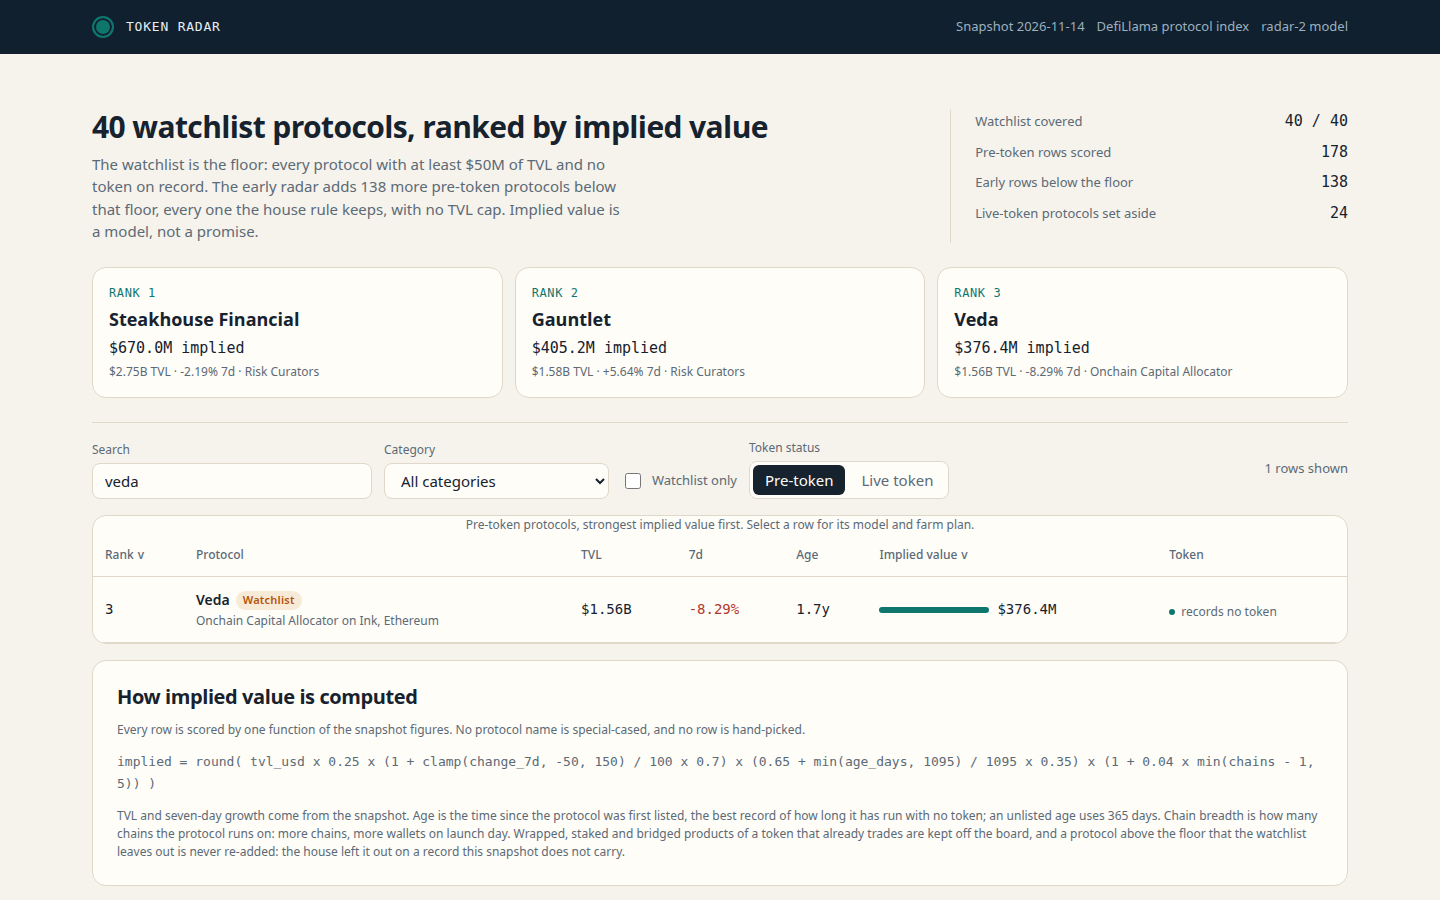
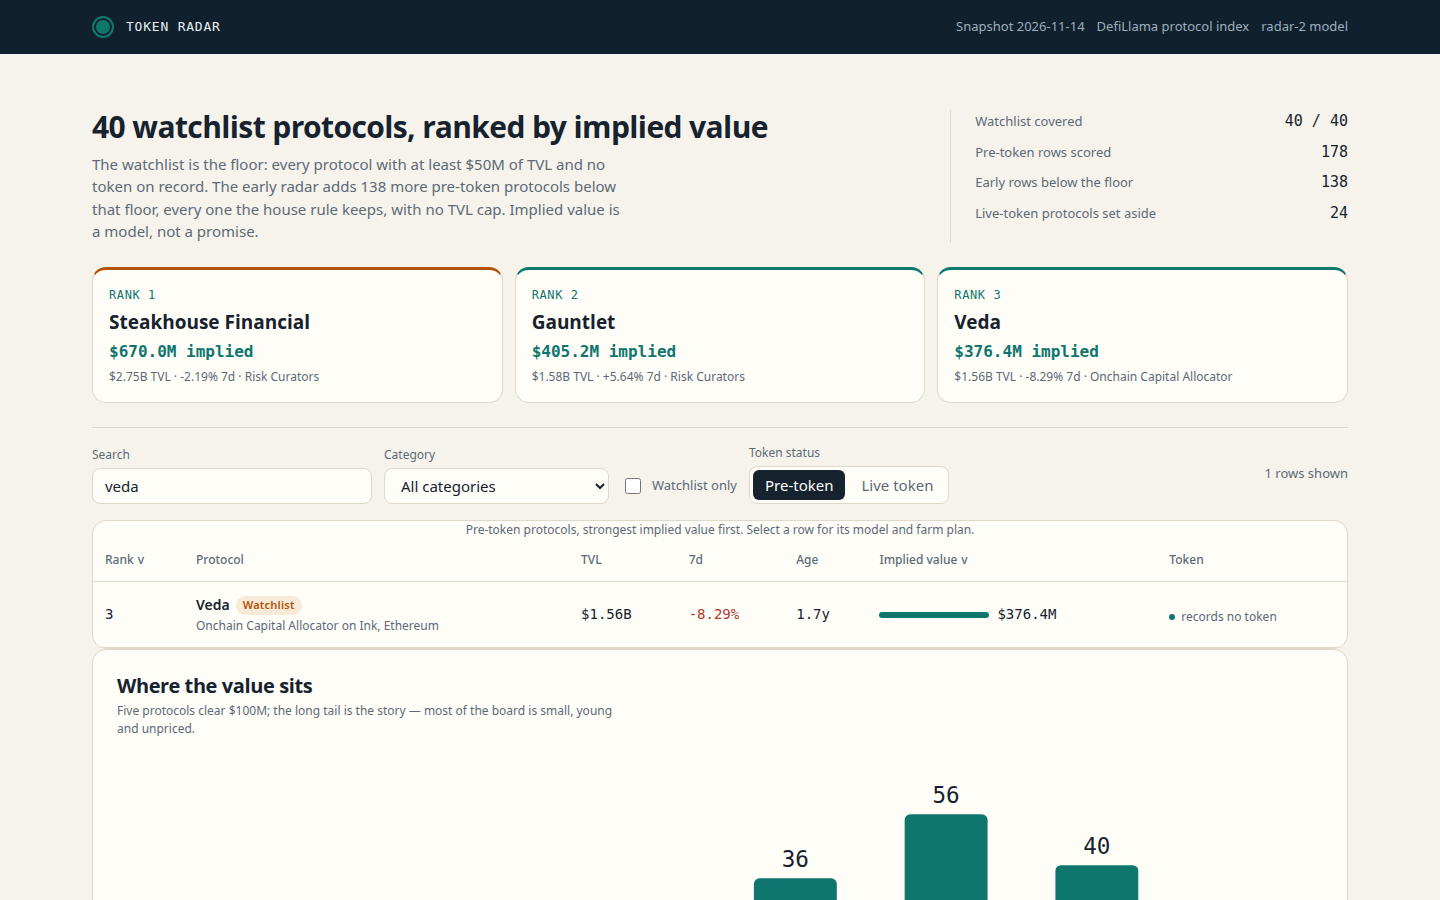
Dashboard v3: value-distribution chart, category summary, tighter layout, README model note

diff --git a/dashboard/app.js b/dashboard/app.js
@@ -299,6 +299,74 @@
     return el('section', { class: 'spot', 'aria-label': 'Top three protocols by implied value' }, cards);
   }
 
+  // Distribution of implied value across the board, as one inline SVG built from the rows
+  // already in data.js: eight log-spaced bands, bar height by row count, no library, no network.
+  function distributionChart() {
+    var bands = [
+      { min: 100e6, label: '≥$100M' }, { min: 50e6, label: '$50–100M' }, { min: 20e6, label: '$20–50M' },
+      { min: 10e6, label: '$10–20M' }, { min: 5e6, label: '$5–10M' }, { min: 2e6, label: '$2–5M' },
+      { min: 1e6, label: '$1–2M' }, { min: 0, label: '<$1M' }
+    ];
+    var counts = bands.map(function () { return 0; });
+    DATA.rows.forEach(function (r) {
+      for (var i = 0; i < bands.length; i++) {
+        if (r.implied_value_usd >= bands[i].min) { counts[i]++; return; }
+      }
+    });
+    var max = Math.max.apply(null, counts);
+    var top = 0, modal = 0;
+    counts.forEach(function (c, i) { if (c > counts[modal]) modal = i; });
+    top = counts[0];
+    var sorted = DATA.rows.map(function (r) { return r.implied_value_usd; }).sort(function (a, b) { return b - a; });
+    var median = Math.round((sorted[88] + sorted[89]) / 2);
+    var parts = ['<svg viewBox="0 0 640 168" role="img" aria-label="Distribution of implied value across ' + DATA.board_size + ' rows">'];
+    parts.push('<line x1="0" y1="128" x2="640" y2="128" stroke="#e0d9ca" stroke-width="1"/>');
+    counts.forEach(function (c, i) {
+      var h = max ? Math.round((c / max) * 96) : 0;
+      var x = i * 80 + 18;
+      var fill = i === 0 ? '#b45309' : '#0f766e';
+      if (h > 0) parts.push('<rect x="' + x + '" y="' + (128 - h) + '" width="44" height="' + h + '" rx="3" fill="' + fill + '"/>');
+      parts.push('<text x="' + (x + 22) + '" y="' + (128 - h - 6) + '" text-anchor="middle" font-size="12" font-family="ui-monospace, Menlo, monospace" fill="#16222e">' + c + '</text>');
+      parts.push('<text x="' + (x + 22) + '" y="148" text-anchor="middle" font-size="11" font-family="ui-monospace, Menlo, monospace" fill="#5b6a76">' + bands[i].label + '</text>');
+    });
+    parts.push('</svg>');
+    return el('div', { class: 'chart' },
+      el('div', { html: parts.join('') }),
+      el('p', { class: 'cap', text: 'Median row: ' + fmtUsd(median) + ' implied · ' + top + ' rows above $100M · most rows sit in the ' + bands[modal].label + ' band.' })
+    );
+  }
+
+  // Top five categories by total implied value, each with its row count.
+  function categoryStrip() {
+    var byCat = {};
+    DATA.rows.forEach(function (r) {
+      var c = r.category || 'Other';
+      if (!byCat[c]) byCat[c] = { name: c, count: 0, total: 0 };
+      byCat[c].count++;
+      byCat[c].total += r.implied_value_usd;
+    });
+    var top = Object.keys(byCat).map(function (k) { return byCat[k]; })
+      .sort(function (a, b) { return b.total - a.total; }).slice(0, 5);
+    return el('div', { class: 'cat-strip' }, top.map(function (c) {
+      return el('div', { class: 'cat' },
+        el('b', { text: c.name }),
+        el('span', { text: c.count + ' rows' }),
+        el('span', { text: fmtUsd(c.total) + ' implied' })
+      );
+    }));
+  }
+
+  function overview() {
+    return el('section', { class: 'panel overview', 'aria-label': 'Where the implied value sits' },
+      el('div', { class: 'overview-head' },
+        el('h2', { text: 'Where the value sits' }),
+        el('p', { class: 'sub', text: 'Five protocols clear $100M; the long tail is the story — most of the board is small, young and unpriced.' })
+      ),
+      distributionChart(),
+      categoryStrip()
+    );
+  }
+
   function controls() {
     var categories = Array.from(new Set(DATA.rows.map(function (r) { return r.category || 'Other'; }))).sort();
     var search = el('input', { type: 'search', id: 'q', placeholder: 'Search name, category or chain', value: state.q, 'aria-label': 'Search the board' });
@@ -482,7 +550,10 @@
     shell.appendChild(spotlight());
     shell.appendChild(controls());
     shell.appendChild(state.tab === 'pre-token' ? boardTable() : liveTable());
-    if (state.tab === 'pre-token') shell.appendChild(modelPanel());
+    if (state.tab === 'pre-token') {
+      shell.appendChild(overview());
+      shell.appendChild(modelPanel());
+    }
     shell.appendChild(el('p', { class: 'note', text: 'Source: DefiLlama protocol index, snapshot ' + DATA.as_of + '. "Records no token" means the snapshot carries no market cap, CoinGecko id or symbol for the protocol; it is not proof none exists. Implied value is this entry\'s own model, never a price, and no farm plan promises a token or an airdrop.' }));
     app.appendChild(shell);
     app.setAttribute('aria-busy', 'false');

diff --git a/dashboard/app.css b/dashboard/app.css
@@ -68,12 +68,23 @@ a { color: var(--accent); }
 .fact span { color: var(--muted); font-size: 13px; }
 
 .spot { display: grid; grid-template-columns: repeat(3, minmax(0, 1fr)); gap: var(--step-3); padding-bottom: var(--step-5); }
-.spot-card { background: var(--surface); border: 1px solid var(--border); border-radius: var(--radius-panel); padding: var(--step-4); cursor: pointer; text-align: left; display: grid; gap: var(--step-1); }
+.spot-card { background: var(--surface); border: 1px solid var(--border); border-top: 3px solid var(--accent); border-radius: var(--radius-panel); padding: var(--step-4); cursor: pointer; text-align: left; display: grid; gap: var(--step-1); }
+.spot-card:first-child { border-top-color: var(--amber); }
 .spot-card:hover { border-color: var(--accent); }
 .spot-card .rank { font-family: var(--font-num); font-size: 12px; color: var(--accent); letter-spacing: 0.05em; text-transform: uppercase; }
-.spot-card b { font-size: 18px; }
-.spot-card .num { font-family: var(--font-num); font-size: 15px; }
+.spot-card b { font-size: 19px; }
+.spot-card .num { font-family: var(--font-num); font-size: 16px; color: var(--accent); font-weight: 600; }
 .spot-card .sub { color: var(--muted); font-size: 12px; }
+
+.overview { margin-bottom: var(--step-5); padding: var(--step-5); display: grid; gap: var(--step-4); }
+.overview-head { display: grid; gap: var(--step-1); }
+.overview-head p { max-width: 78ch; }
+.chart svg { display: block; width: 100%; height: auto; }
+.chart .cap { color: var(--muted); font-size: 13px; margin-top: var(--step-2); }
+.cat-strip { display: grid; grid-template-columns: repeat(5, minmax(0, 1fr)); gap: var(--step-3); border-top: 1px solid var(--border); padding-top: var(--step-4); }
+.cat { display: grid; gap: 2px; min-width: 0; }
+.cat b { font-size: 14px; overflow-wrap: anywhere; }
+.cat span { color: var(--muted); font-size: 12px; font-family: var(--font-num); white-space: nowrap; }
 
 .controls { display: flex; flex-wrap: wrap; align-items: end; gap: var(--step-3); padding: var(--step-4) 0; border-top: 1px solid var(--border); }
 .field { display: grid; gap: var(--step-1); }
@@ -154,6 +165,9 @@ tbody tr[data-selected="true"] { background: var(--accent-soft); }
   .facts { border-left: 0; border-top: 1px solid var(--border); padding-left: 0; padding-top: var(--step-4); }
   .spot { grid-template-columns: 1fr; }
   .field input { min-width: 0; width: 100%; }
+  .overview { padding: var(--step-4); }
+  .cat-strip { grid-template-columns: repeat(2, minmax(0, 1fr)); }
+  .cat span { white-space: normal; }
 }
 @media (prefers-reduced-motion: reduce) {
   *, *::before, *::after { transition-duration: 0.01ms !important; animation-duration: 0.01ms !important; animation-iteration-count: 1 !important; }

diff --git a/README.md b/README.md
@@ -6,7 +6,13 @@
 
 Token launch radar: rank pre-token DeFi protocols by implied launch value. Built by an AI agent for make.fun's "Build the best token launch radar" bounty, $1,325 in USDC.
 
-The board covers the full 40-protocol watchlist (TVL >= $50M, no token on record) plus 138 pre-token protocols below the floor. Implied value is a model, not a promise: it follows from the snapshot figures — TVL, 7-day growth, how long the protocol has run with no token, and chain breadth. No protocol name is special-cased. Each row carries a concrete farm plan with costs and times.
+The board covers the full 40-protocol watchlist (TVL >= $50M, no token on record) plus 138 pre-token protocols below the floor. Implied value is a model, not a promise: TVL × 0.25, adjusted by three multipliers that all come from the same snapshot — seven-day growth (clamped −50%…+150%, weighted 0.7), maturity (0.65 plus up to 0.35 for up to three years listed with no token), and chain breadth (+4% per extra chain, up to five). Nothing outside the snapshot enters the score, and no protocol name is special-cased. Each row carries a concrete farm plan with costs and times.
+
+## How to read the board
+
+- Rank is implied launch value, highest first; the bar beside it is the same number scaled to the top row.
+- Watchlist rows cleared the $50M TVL floor with no token on record; Early rows are the same rule below the floor.
+- Select any row for the model's own inputs and a seven-step farm plan with costs and times.
 
 ## Run it
 
